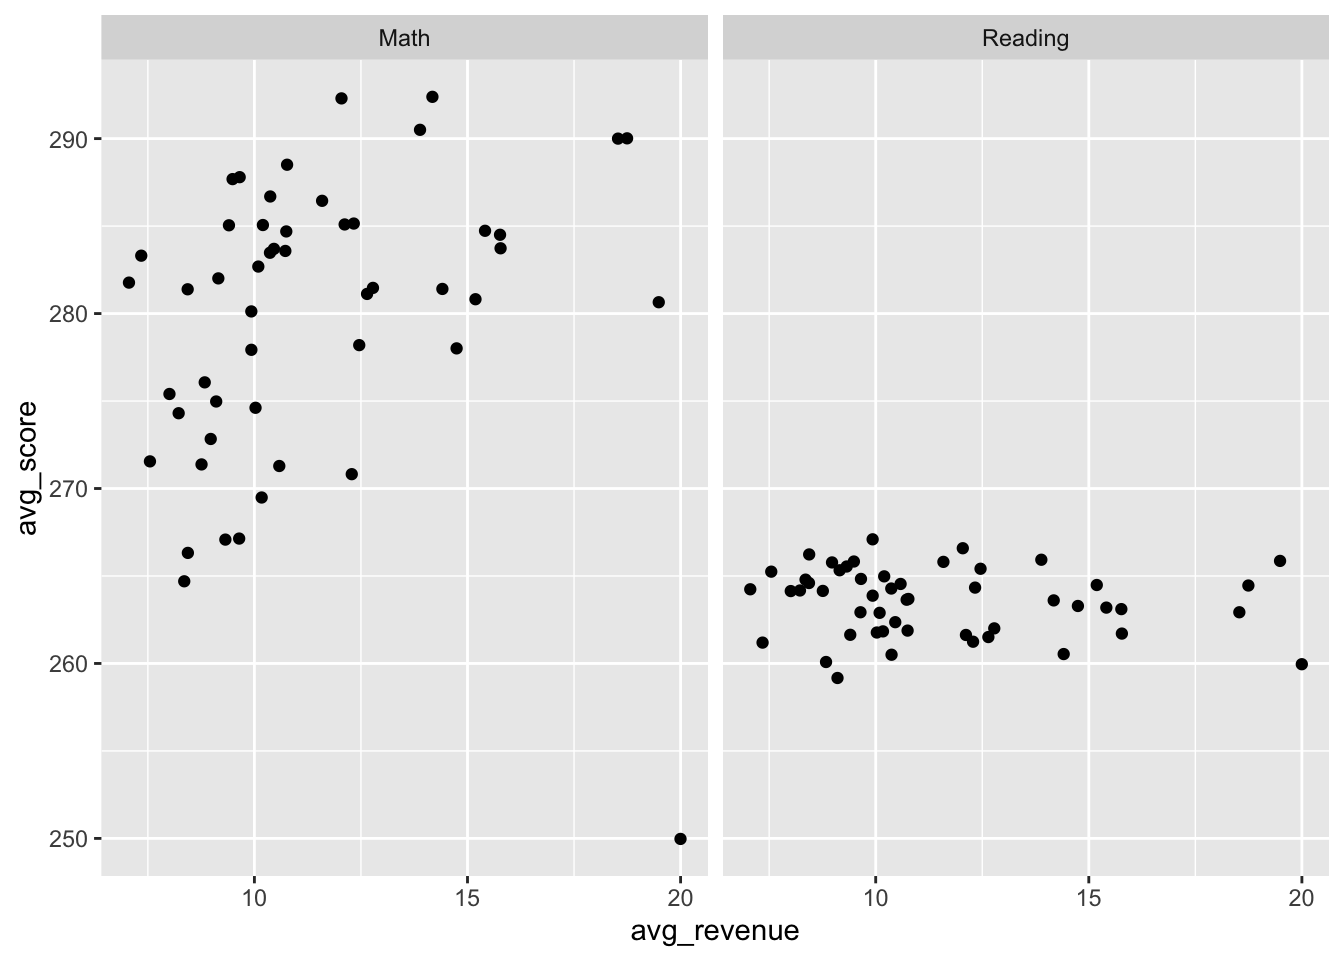
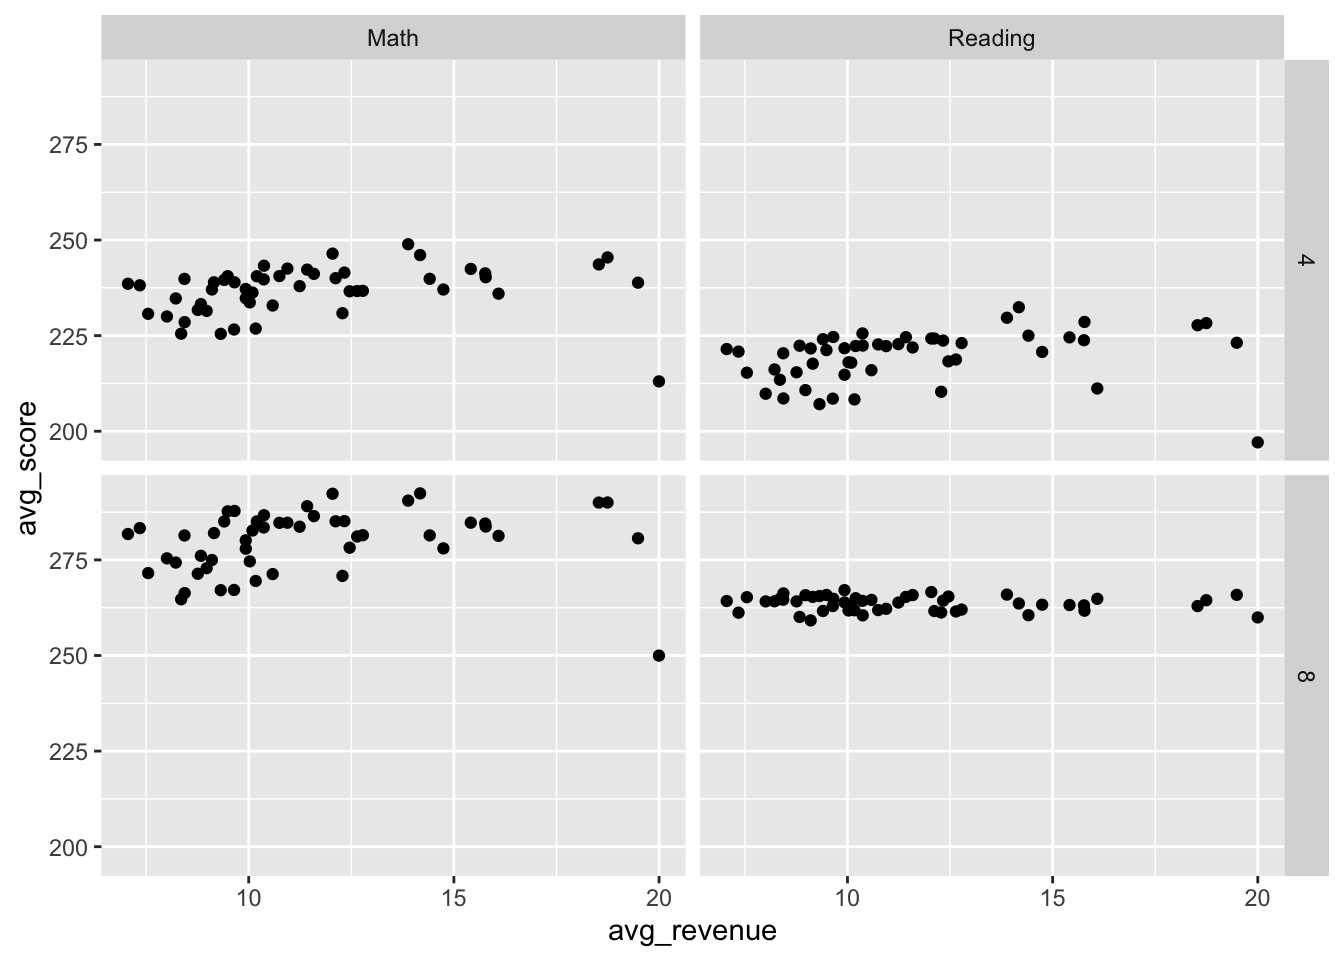
post lab 5

diff --git a/lab5.html b/lab5.html
@@ -404,26 +404,26 @@ div.tocify {
 <h2>Part 2</h2>
 <p>After all your hard and wonderful work, your colleague tells you that what they’re <strong>really</strong> interested in is how average total revenue relates to achievement. They have decided they want to collapse the data across years and see how the average revenue for states relates to achievement. They feel it’s important to normalize revenue with respect to total enrollment (<code>total_revenue/enroll</code>). They understand this will limit their sample some due to missing data.</p>
 <p>After conducting some basic data manipulations, they have ended up with a data set that looks like this</p>
-<pre><code>## # A tibble: 6 x 4
-## # Groups:   state [3]
-##   state   content avg_revenue avg_score
-##   &lt;chr&gt;   &lt;chr&gt;         &lt;dbl&gt;     &lt;dbl&gt;
-## 1 Alabama Math       8.353728  264.6971
-## 2 Alabama Reading    8.353728  264.7919
-## 3 Alaska  Math      15.18719   280.8197
-## 4 Alaska  Reading   15.18719   264.4845
-## 5 Arizona Math       8.006919  275.4032
-## 6 Arizona Reading    8.006919  264.1375</code></pre>
-<pre><code>## # A tibble: 6 x 4
-## # Groups:   state [3]
-##   state         content avg_revenue avg_score
-##   &lt;chr&gt;         &lt;chr&gt;         &lt;dbl&gt;     &lt;dbl&gt;
-## 1 West virginia Math       10.58383  271.2867
-## 2 West virginia Reading    10.58383  264.5445
-## 3 Wisconsin     Math       11.58851  286.4443
-## 4 Wisconsin     Reading    11.58851  265.8068
-## 5 Wyoming       Math       15.76345  284.5035
-## 6 Wyoming       Reading    15.76345  263.1064</code></pre>
+<pre><code>## # A tibble: 6 x 5
+## # Groups:   state, content [3]
+##   state   content grade avg_revenue avg_score
+##   &lt;chr&gt;   &lt;chr&gt;   &lt;int&gt;       &lt;dbl&gt;     &lt;dbl&gt;
+## 1 Alabama Math        4    8.353728  225.5124
+## 2 Alabama Math        8    8.353728  264.6971
+## 3 Alabama Reading     4    8.353728  213.4664
+## 4 Alabama Reading     8    8.353728  264.7919
+## 5 Alaska  Math        4   16.08845   235.9712
+## 6 Alaska  Math        8   16.08845   281.2735</code></pre>
+<pre><code>## # A tibble: 6 x 5
+## # Groups:   state, content [3]
+##   state     content grade avg_revenue avg_score
+##   &lt;chr&gt;     &lt;chr&gt;   &lt;int&gt;       &lt;dbl&gt;     &lt;dbl&gt;
+## 1 Wisconsin Reading     4    11.58851  221.9016
+## 2 Wisconsin Reading     8    11.58851  265.8068
+## 3 Wyoming   Math        4    15.76345  241.2838
+## 4 Wyoming   Math        8    15.76345  284.5035
+## 5 Wyoming   Reading     4    15.76345  223.7952
+## 6 Wyoming   Reading     8    15.76345  263.1064</code></pre>
 <p>And an initial plot that looks like this:</p>
 <p><img src="lab5_files/figure-html/scatter1-1.png" width="672" /></p>
 <ol style="list-style-type: decimal">
